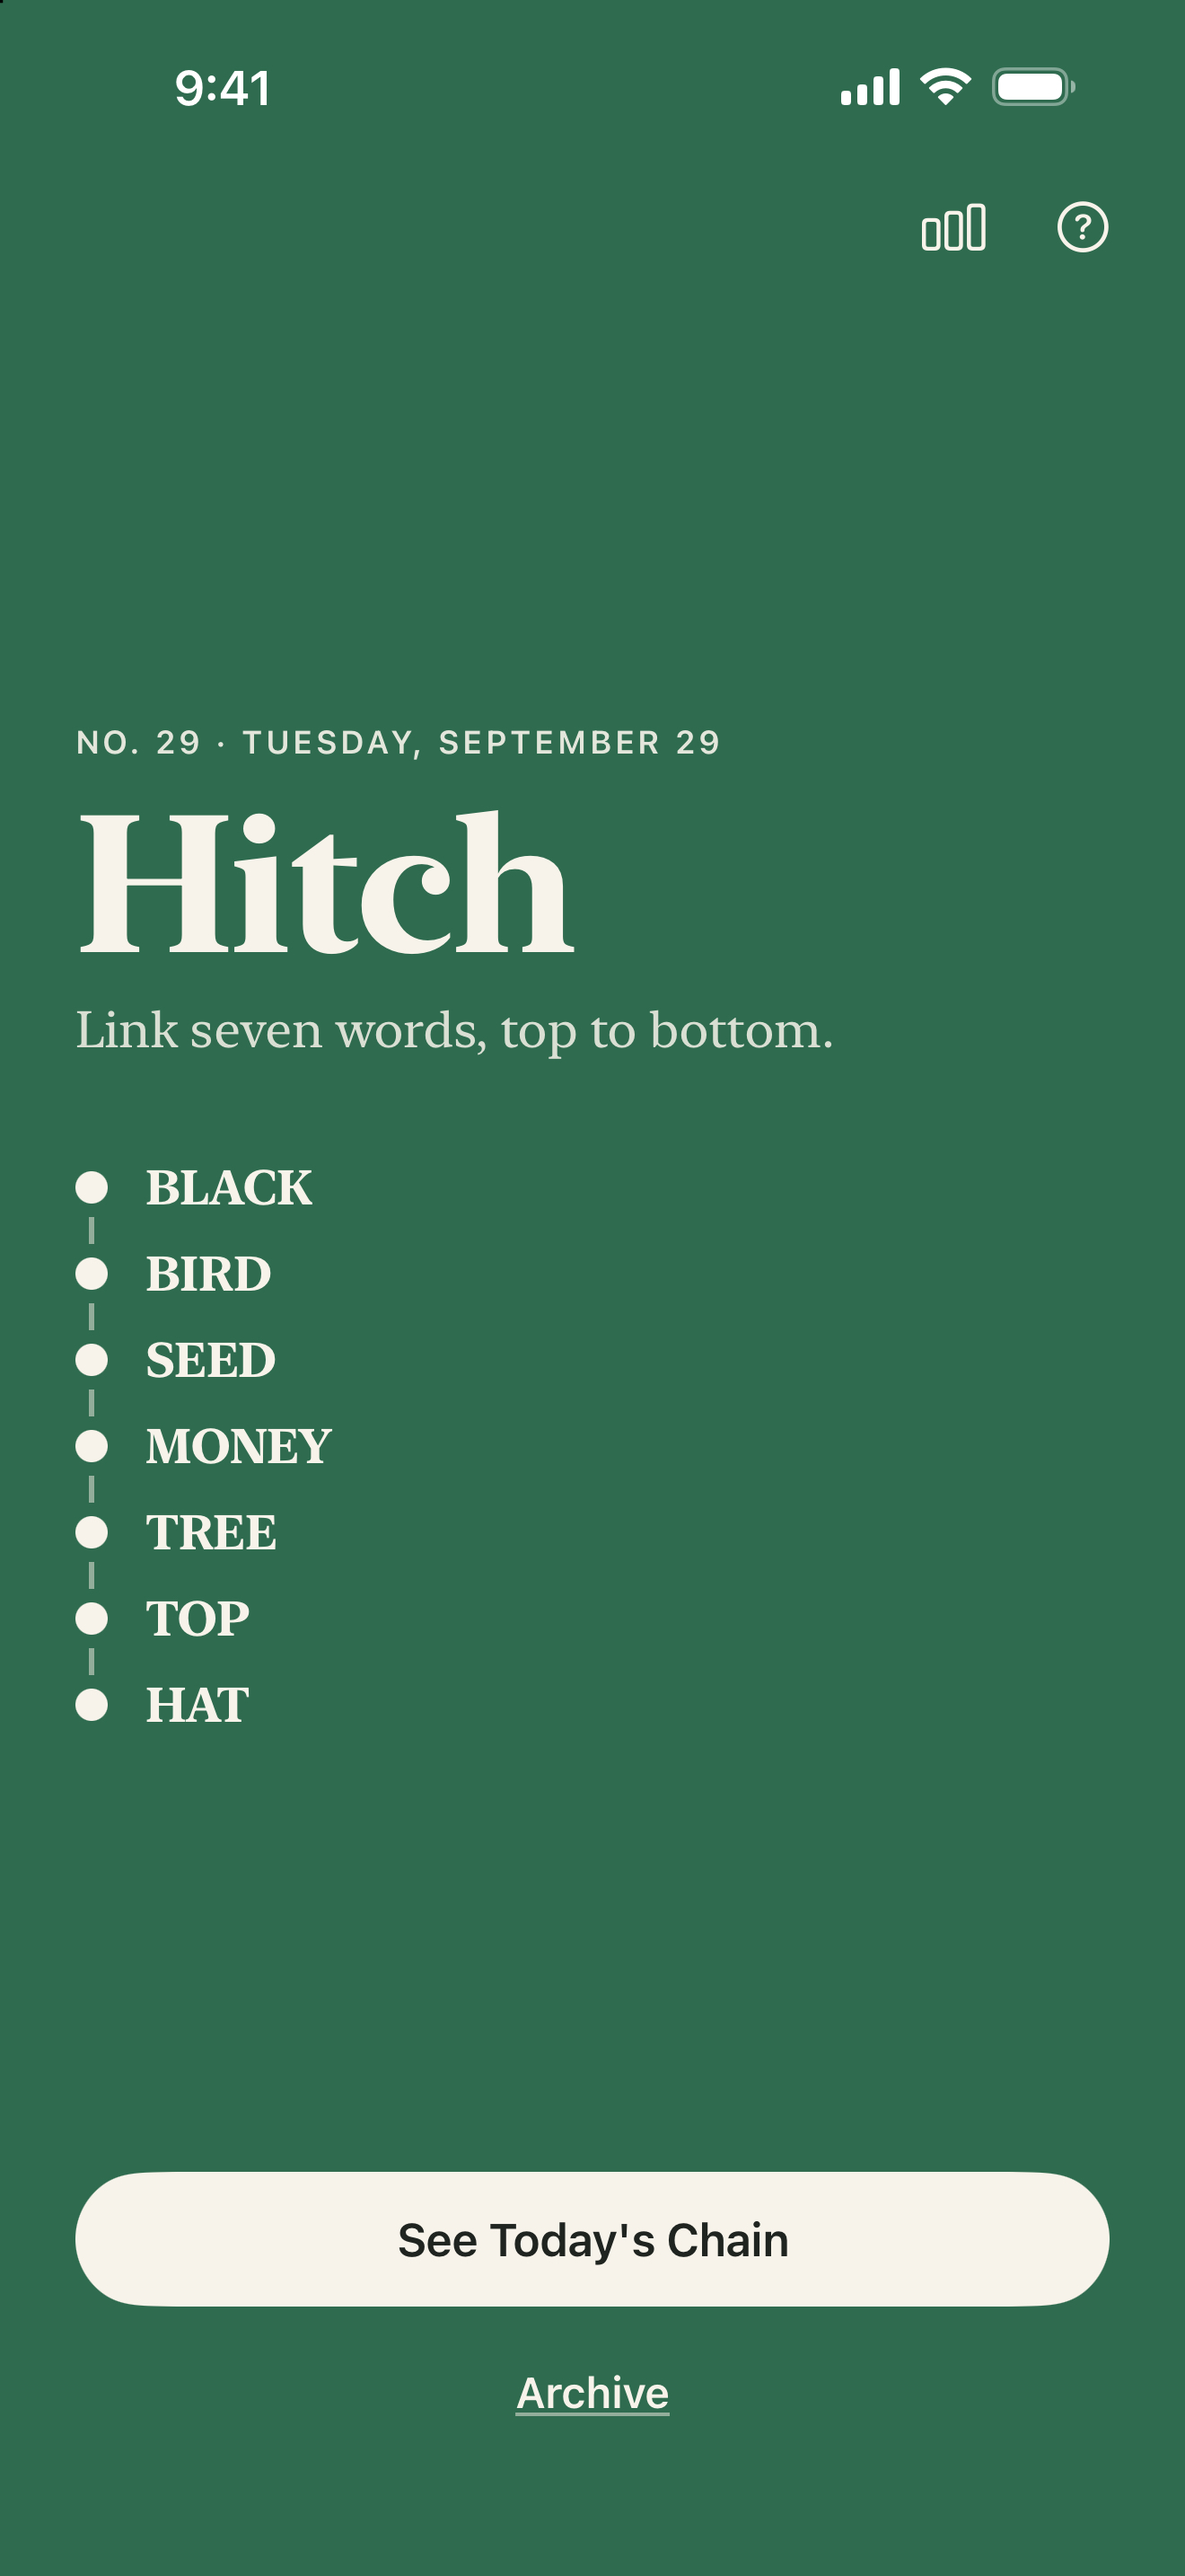
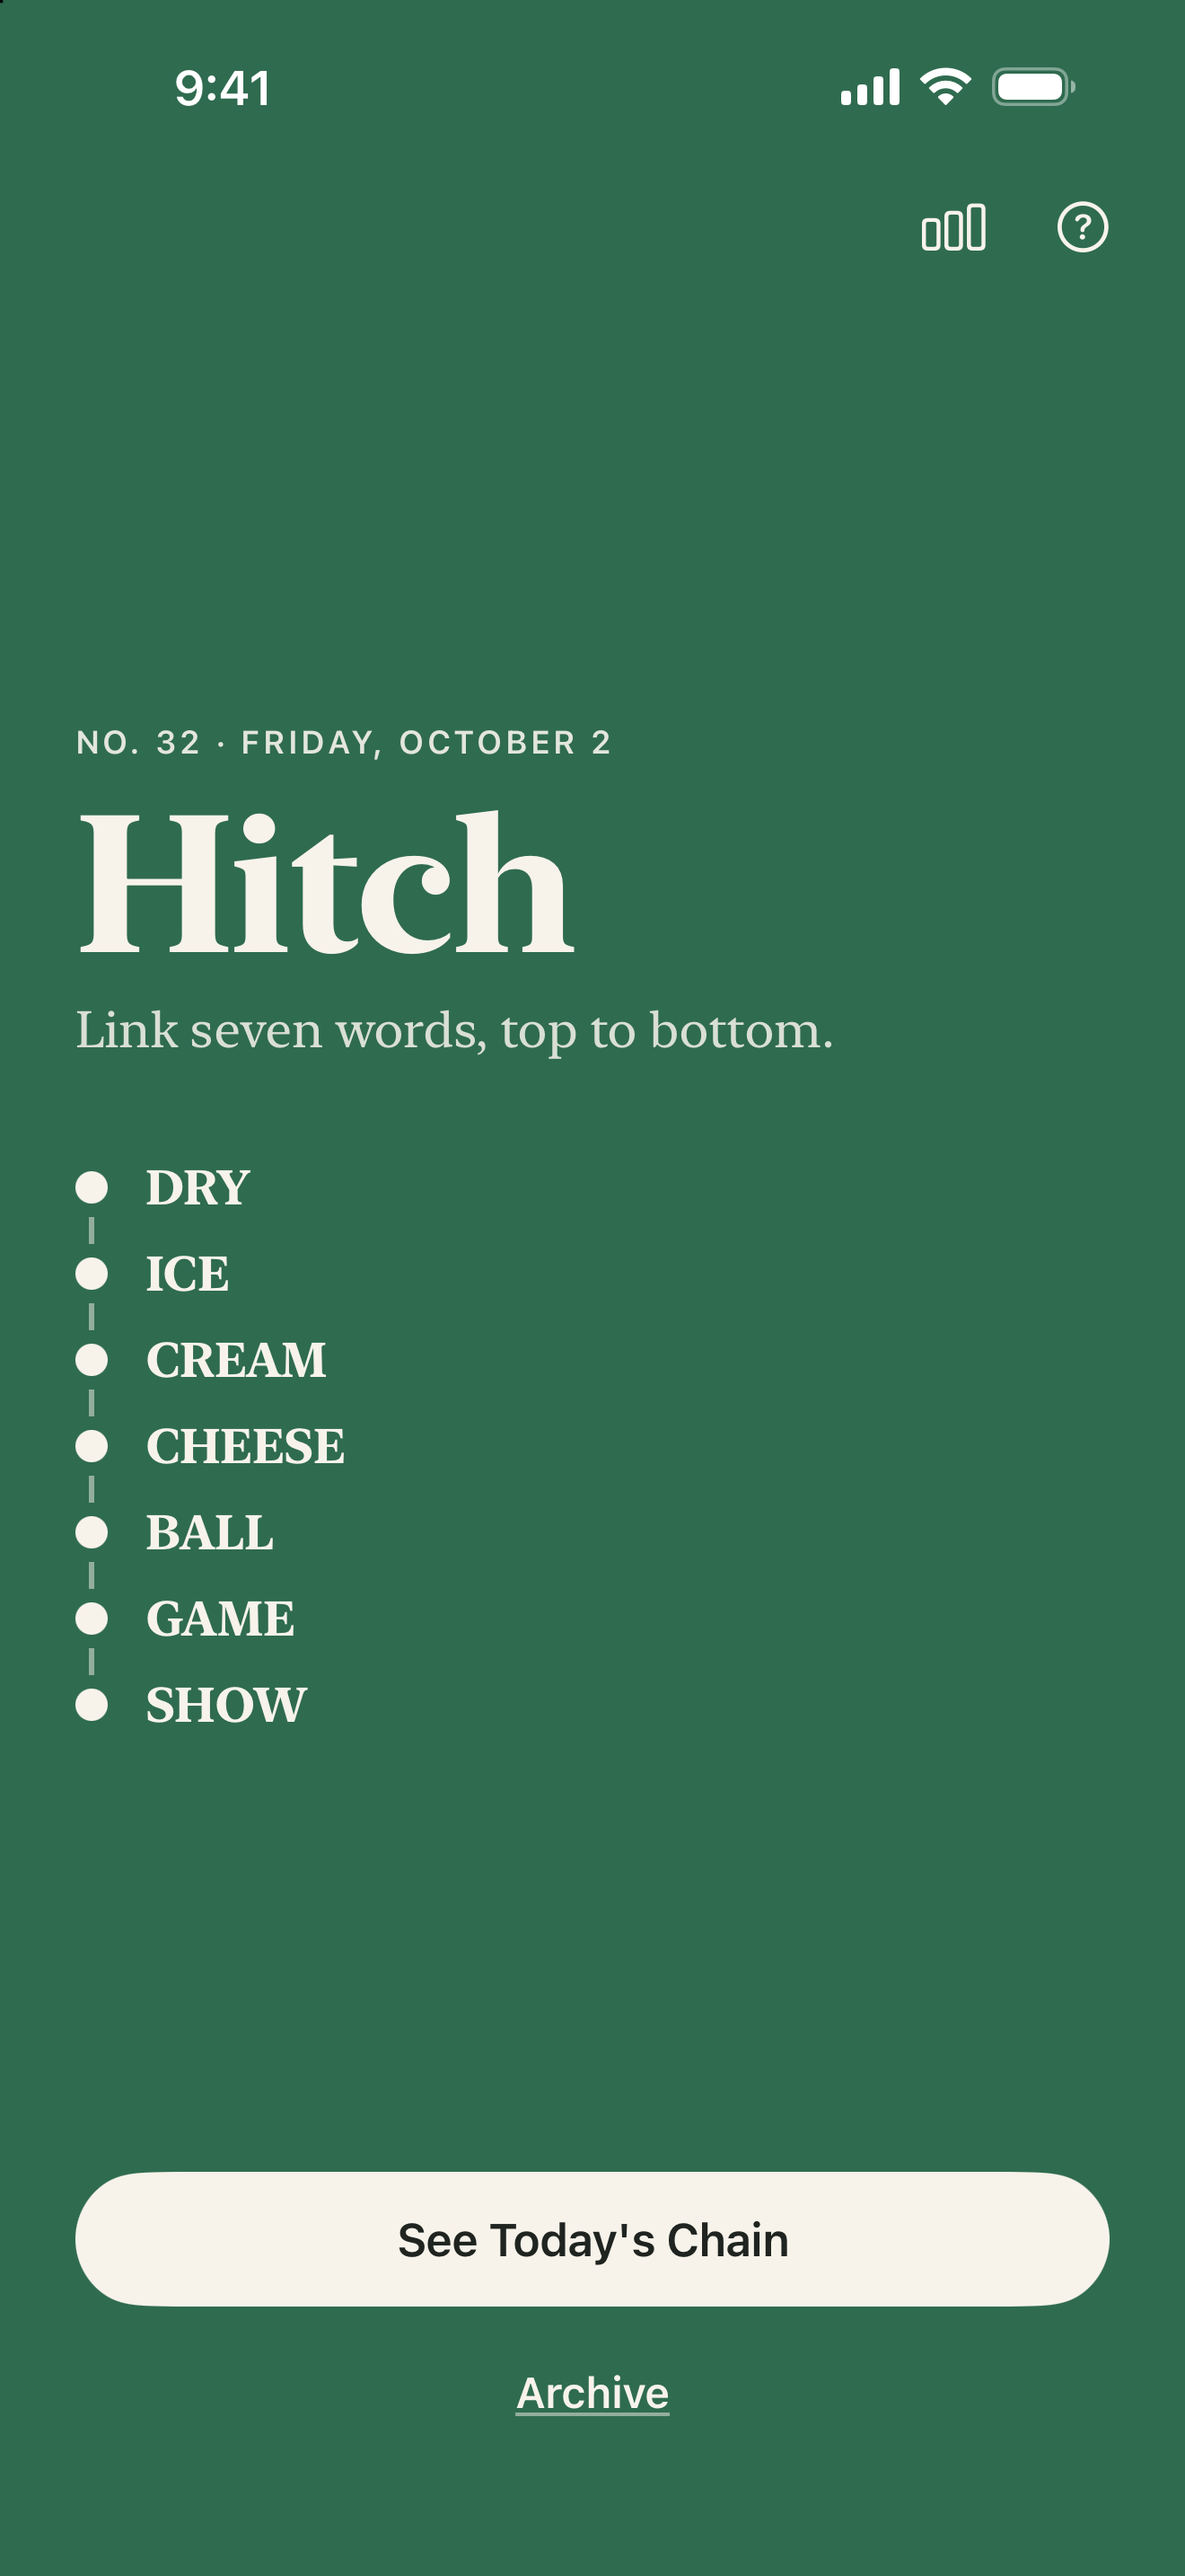
Retake App Store screenshots for build 4
New iPhone 6.9" and iPad 13" sets showing the spare-letter pips, yellow revealed letters, Win %,
and the updated How to Play.

Changed region(s): [[0.1242, 0.4344, 0.2795, 0.6827], [0.2174, 0.2793, 0.5591, 0.3103]]

diff --git a/docs/APP-STORE.md b/docs/APP-STORE.md
@@ -22,7 +22,7 @@ Noah Greensweig (team `S6QW7SV228`).
 | Promotional text, description, keywords | Filled; keywords use 93 of 100 characters |
 | Support URL | `https://nsgnoah.github.io/hitch/` |
 | Copyright | `2026 Noah Greensweig` |
-| Build | 3 (version 1.0), the first with `PrivacyInfo.xcprivacy` |
+| Build | 4 (version 1.0), uploaded October 2 with yellow revealed letters, the five-letter limit and the new share. Build 3 was the first with `PrivacyInfo.xcprivacy`; the slimmer gold-and-cream icon needs build 5 |
 | Release | Automatically after approval |
 
 Age rating note: a few chains contain ordinary compound words such as "root beer", "beer garden",
@@ -54,9 +54,10 @@ thematic.
 
 ## Screenshots
 
-The screenshots show a seeded play history: 27 chains finished, a 19-day streak, today's chain
-finished with one extra letter, and No. 10 half played for the gameplay shot. They were taken on
-an iPhone 17 Pro Max and an iPad Pro 13-inch (M5) simulator at 9:41 with a full battery.
+The screenshots (retaken October 2 for build 4) show a seeded play history: 29 chains played, 93%
+won (two broken chains), a 19-day streak, today's chain finished with one revealed letter, and
+No. 10 half played with two of the five spare letters used. They were taken on an iPhone 17 Pro Max
+and an iPad Pro 13-inch (M5) simulator, iOS 26, at 9:41 with a full battery.
 
 ## Support site
 
